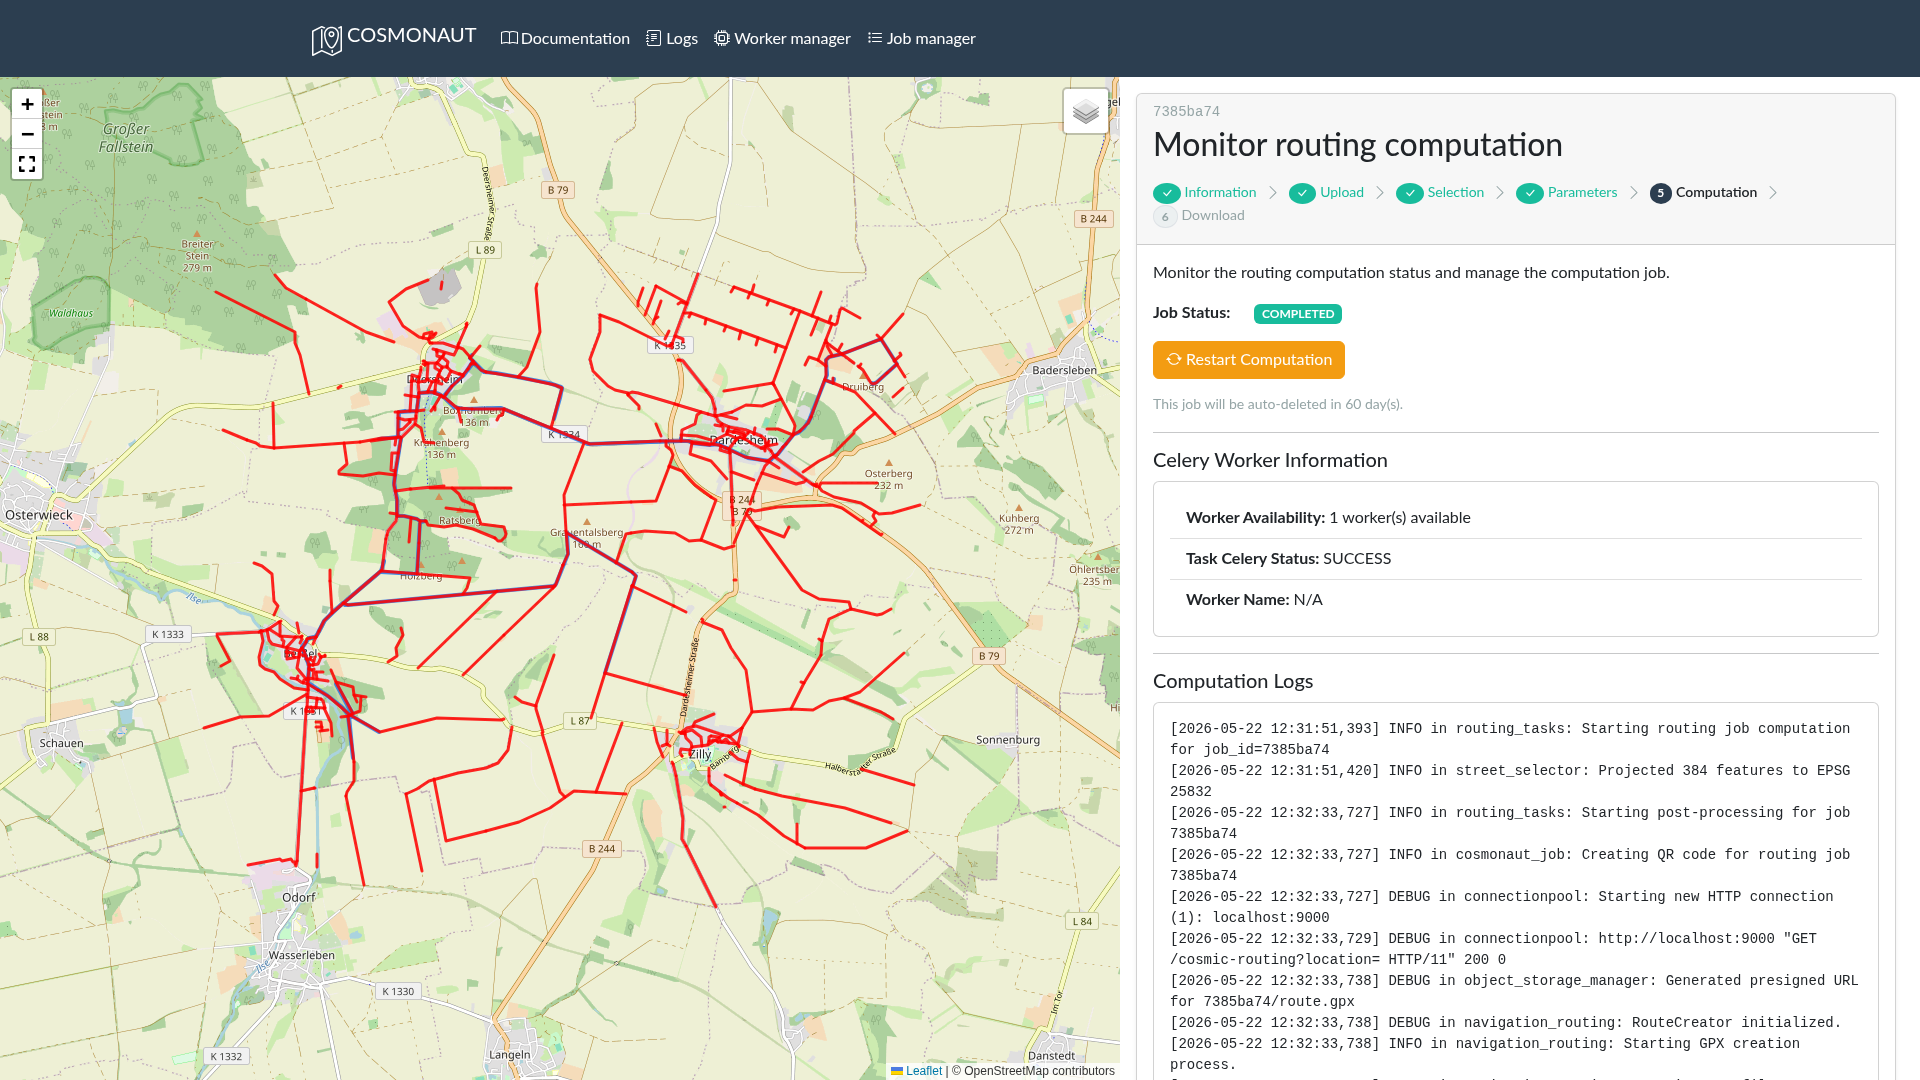
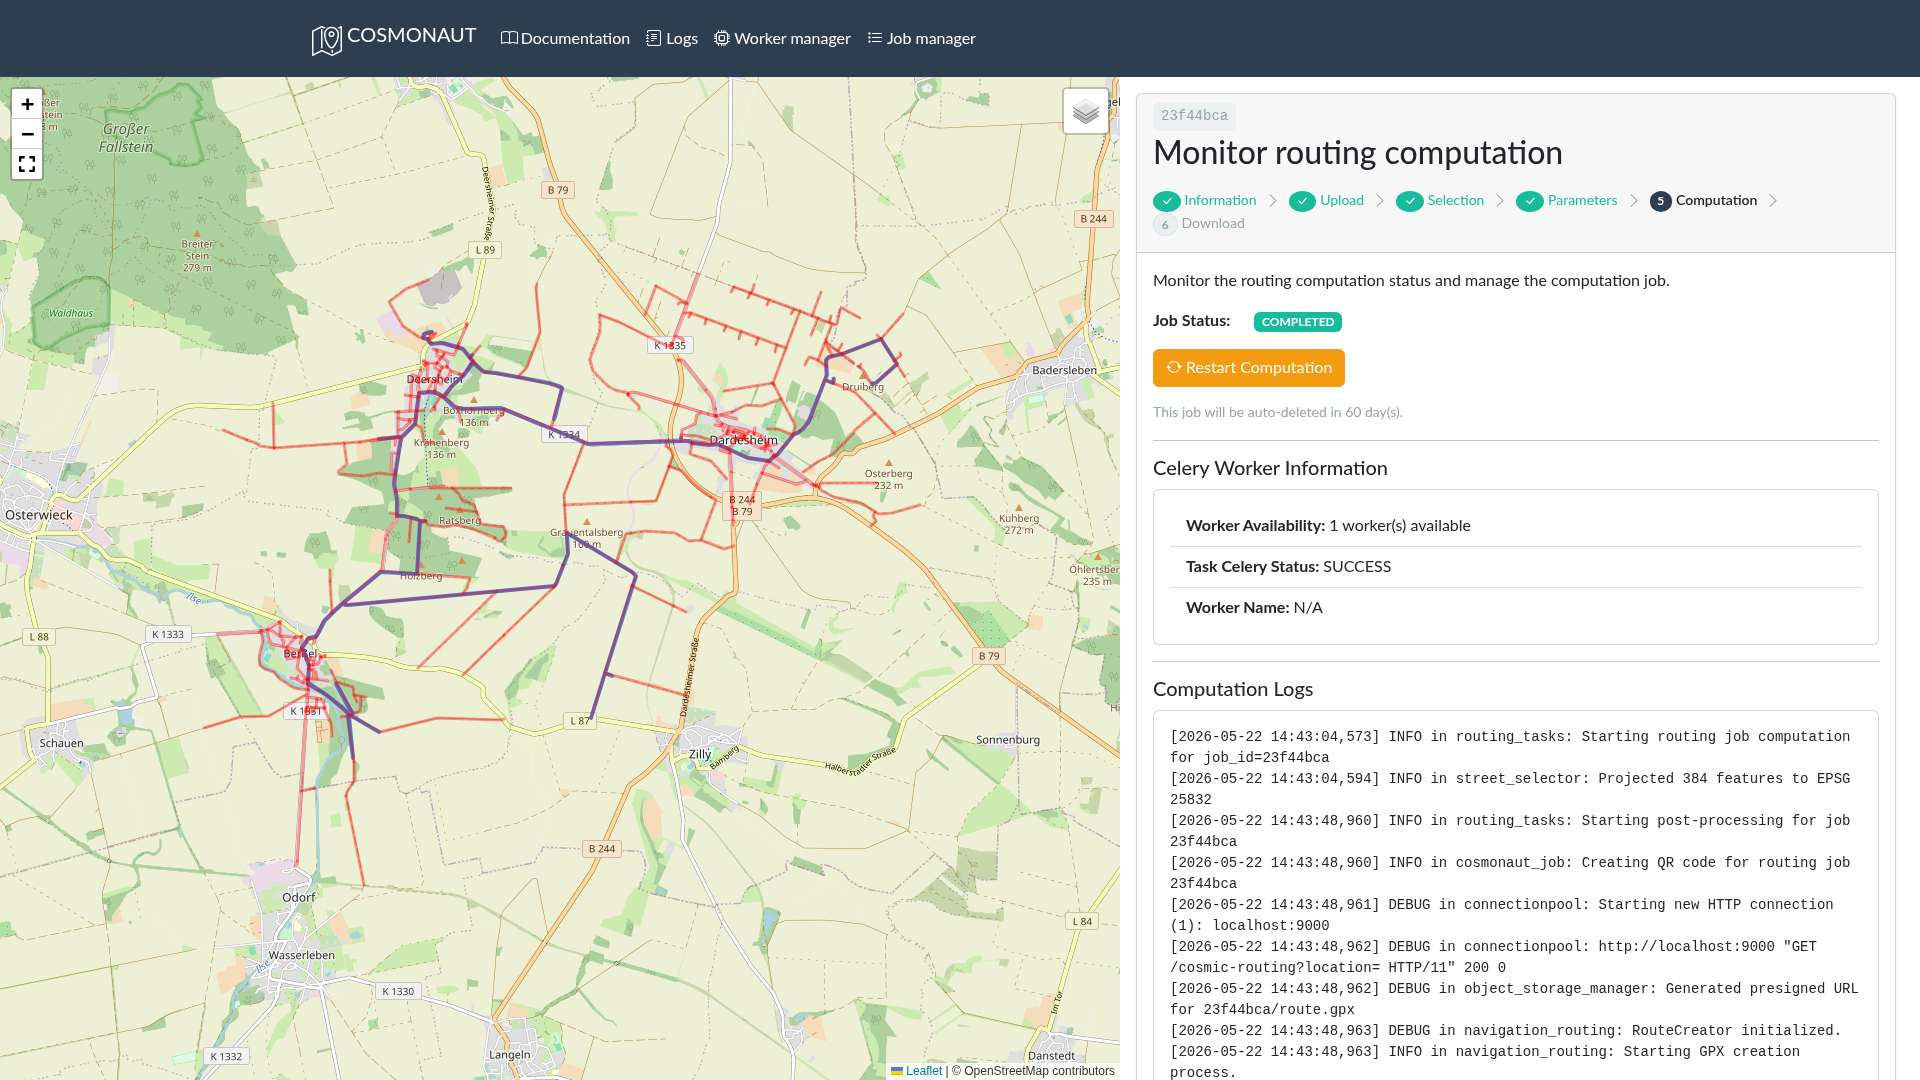
Design Update 004

diff --git a/cosmonaut_app/assets/dashExtensions_default.js b/cosmonaut_app/assets/dashExtensions_default.js
@@ -3,15 +3,17 @@ window.dashExtensions = Object.assign({}, window.dashExtensions, {
         function0: function(feature, context) {
                 const {
                     selected,
-                    zoom
+                    zoom,
+                    dimmed
                 } = context.hideout;
                 // Increase base weight to make lines easier to click. Keep adaptive thinning on zoom in.
                 const lineWeight = zoom ? Math.max(3, 18 / zoom) : 4; // at zoom=10 -> ~3
                 const color = selected.includes(feature.id) ? 'yellow' : 'red';
+                const opacity = dimmed ? 0.4 : 0.85;
                 return {
                     color: color,
                     weight: lineWeight,
-                    opacity: 0.85
+                    opacity: opacity
                 };
             }
 
@@ -19,14 +21,16 @@ window.dashExtensions = Object.assign({}, window.dashExtensions, {
         function1: function(feature, context) {
                 const {
                     selected,
-                    zoom
+                    zoom,
+                    dimmed
                 } = context.hideout;
                 const lineWeight = zoom ? Math.max(4, 22 / zoom) : 5;
                 const color = selected.includes(feature.id) ? 'orange' : '#ff6666';
+                const opacity = dimmed ? 0.5 : 1.0;
                 return {
                     color: color,
                     weight: lineWeight,
-                    opacity: 1.0
+                    opacity: opacity
                 };
             }
 

diff --git a/cosmonaut_app/assets/style.css b/cosmonaut_app/assets/style.css
@@ -63,3 +63,10 @@ div:has(> #_pages_content) {
     flex: 1;
     max-width: 100%;
 }
+
+/* Card header as fieldset legend — sits on top border */
+.cn-card-legend {
+    margin-top: -12px;
+    width: fit-content;
+    margin-left: 12px;
+}

diff --git a/cosmonaut_app/layout.py b/cosmonaut_app/layout.py
@@ -54,11 +54,12 @@ _default_name_space.dump = lambda assets_folder=_assets_folder: _original_dump(
 style_handle = assign(
     """
 function(feature, context){
-    const {selected, zoom} = context.hideout;
+    const {selected, zoom, dimmed} = context.hideout;
     // Increase base weight to make lines easier to click. Keep adaptive thinning on zoom in.
     const lineWeight = zoom ? Math.max(3, 18 / zoom) : 4; // at zoom=10 -> ~3
     const color = selected.includes(feature.id) ? 'yellow' : 'red';
-    return {color: color, weight: lineWeight, opacity: 0.85};
+    const opacity = dimmed ? 0.4 : 0.85;
+    return {color: color, weight: lineWeight, opacity: opacity};
 }
 """
 )
@@ -67,10 +68,11 @@ function(feature, context){
 hover_style_handle = assign(
     """
 function(feature, context){
-    const {selected, zoom} = context.hideout;
+    const {selected, zoom, dimmed} = context.hideout;
     const lineWeight = zoom ? Math.max(4, 22 / zoom) : 5;
     const color = selected.includes(feature.id) ? 'orange' : '#ff6666';
-    return {color: color, weight: lineWeight, opacity: 1.0};
+    const opacity = dimmed ? 0.5 : 1.0;
+    return {color: color, weight: lineWeight, opacity: opacity};
 }
 """
 )
@@ -96,7 +98,7 @@ osm_layer = dl.TileLayer(
     url="https://{s}.tile.openstreetmap.org/{z}/{x}/{y}.png",
     attribution="© OpenStreetMap contributors",
 )
-default_map_layers = [osm_layer, dl.FullScreenControl()]
+default_map_layers = [osm_layer, dl.FullScreenControl(title="Toggle full screen")]
 steps_jobs = {
     "user_info": ["Information", "Provide user information"],
     "data_upload": ["Upload", "Upload classification data"],
@@ -324,7 +326,7 @@ def build_global_map():
                     options={"style": style_handle},
                     hoverStyle=hover_style_handle,
                     eventHandlers=dict(click=click_handler),
-                    hideout=dict(selected=[], zoom=10),
+                    hideout=dict(selected=[], zoom=10, dimmed=True),
                 ),
                 name="Streets",
                 checked=True,
@@ -344,7 +346,7 @@ def build_global_map():
         position="topright",
     )
     return dl.Map(
-        [osm_layer, dl.FullScreenControl(), layers_control],
+        [osm_layer, dl.FullScreenControl(title="Toggle full screen"), layers_control],
         id=MAIN_MAP_COMPONENT_MAP_SHARED_ID,
         center=[51.70, 11.20],
         zoom=10,
@@ -428,7 +430,7 @@ def create_card_input(
             html.Code(
                 job_id,
                 id=JOB_ID_KICKER_CODE_SHARED_ID,
-                className="text-muted small d-block mb-1",
+                className="text-muted small d-inline-block mb-1 bg-light px-2 py-1 rounded",
                 title="Copy job ID",
                 # cursor-pointer: no Bootstrap utility class in v5.2 for cursor
                 style={"cursor": "pointer"},
@@ -729,6 +731,22 @@ def register_map_callbacks(app):
             return empty_fc
 
         return StreetSelector(job).viewport_fc(bounds, zoom or 10)
+
+    @app.callback(
+        Output(OSM_GEOJSON_LAYER_MAP_SHARED_ID, "hideout", allow_duplicate=True),
+        Input(URL_SHARED_ID, "pathname"),
+        State(OSM_GEOJSON_LAYER_MAP_SHARED_ID, "hideout"),
+        prevent_initial_call=True,
+    )
+    def toggle_map_dim_on_page(pathname, current_hideout):
+        """Dim the map on all pages except street_selection."""
+        if not pathname or not current_hideout:
+            # leave hideout untouched — returning None would clobber the
+            # GeoJSON layer's state and the style_handle would crash on
+            # context.hideout.dimmed
+            raise PreventUpdate
+        dimmed = not pathname.endswith("/street-selection")
+        return {**current_hideout, "dimmed": dimmed}
 
 
 # Copy job ID to clipboard on click, flash background to confirm.

diff --git a/cosmonaut_app/pages/data_upload.py b/cosmonaut_app/pages/data_upload.py
@@ -103,11 +103,13 @@ from cosmonaut_app.constants.html_ids import (
     JOB_ID_STORE_SHARED_ID,
     MAIN_MAP_COMPONENT_MAP_SHARED_ID,
     MEMBERSHIP_ERROR_DIV_DATA_UPLOAD_ID,
+    MEMBERSHIP_HELP_ICON_ID,
     MEMBERSHIP_TILE_LAYER_MAP_ID,
     MEMBERSHIP_UPLOAD_COLLAPSE_DATA_UPLOAD_ID,
     NEXT_BUTTON_DATA_UPLOAD_ID,
     PREDICTOR_ERROR_DIV_DATA_UPLOAD_ID,
     PREDICTOR_FILE_INFO_DIV_DATA_UPLOAD_ID,
+    PREDICTOR_HELP_ICON_ID,
     PREDICTOR_UPLOAD_COLLAPSE_DATA_UPLOAD_ID,
     PREDICTOR_UPLOAD_COMPONENT_DATA_UPLOAD_ID,
     STREET_PROCESSING_POLL_DATA_UPLOAD_ID,
@@ -147,11 +149,23 @@ def _first_sentence(text):
     return stripped[: dot + 1]
 
 
-def _help_icon(description):
-    """Create a question-mark icon with a native browser tooltip."""
-    return html.I(
-        className="bi bi-info-circle text-muted ms-1",
-        title=description.strip(),
+def _help_icon(icon_id, description):
+    """Create a question-mark icon with a dbc.Tooltip.
+
+    Wrapped in an html.Span so the helper returns a single component, not a
+    list. Returning a raw list and placing it inside another list (e.g. as a
+    sibling inside html.Span's children) leaves React with a nested array
+    that dash-renderer doesn't reliably flatten — crashes the page with
+    React error #31 ("Objects are not valid as a React child").
+    """
+    return html.Span(
+        [
+            html.I(
+                id=icon_id,
+                className="bi bi-info-circle text-muted ms-1",
+            ),
+            dbc.Tooltip(description.strip(), target=icon_id),
+        ]
     )
 
 
@@ -223,7 +237,7 @@ def layout(job_id):
                 [
                     dbc.CardHeader(
                         "Coordinate system",
-                        className="text-uppercase text-muted small fw-bold",
+                        className="cn-card-legend bg-white border-0 fw-bold",
                     ),
                     dbc.CardBody(
                         [
@@ -256,7 +270,7 @@ def layout(job_id):
                 [
                     dbc.CardHeader(
                         "Membership data",
-                        className="text-uppercase text-muted small fw-bold",
+                        className="cn-card-legend bg-white border-0 fw-bold",
                     ),
                     dbc.CardBody(
                         [
@@ -282,7 +296,7 @@ def layout(job_id):
                                                 _first_sentence(DESCRIPTION_MEMBERSHIP),
                                                 className="text-muted",
                                             ),
-                                            _help_icon(DESCRIPTION_MEMBERSHIP),
+                                            _help_icon(MEMBERSHIP_HELP_ICON_ID, DESCRIPTION_MEMBERSHIP),
                                         ],
                                     ),
                                 ],
@@ -346,7 +360,7 @@ def layout(job_id):
                 [
                     dbc.CardHeader(
                         "Predictor data",
-                        className="text-uppercase text-muted small fw-bold",
+                        className="cn-card-legend bg-white border-0 fw-bold",
                     ),
                     dbc.CardBody(
                         [
@@ -372,7 +386,7 @@ def layout(job_id):
                                                 _first_sentence(DESCRIPTION_PREDICTOR),
                                                 className="text-muted",
                                             ),
-                                            _help_icon(DESCRIPTION_PREDICTOR),
+                                            _help_icon(PREDICTOR_HELP_ICON_ID, DESCRIPTION_PREDICTOR),
                                         ],
                                     ),
                                 ],

diff --git a/cosmonaut_app/pages/user_info.py b/cosmonaut_app/pages/user_info.py
@@ -104,15 +104,6 @@ def layout(job_id):
                 "Enter your email to receive notifications for this job.",
                 className="text-muted",
             ),
-            dbc.Collapse(
-                dbc.Alert(
-                    "Warning: Your email is visible from inside the UFZ network.",
-                    color="warning",
-                    className="mb-2",
-                ),
-                id=EMAIL_VISIBILITY_NOTICE_COLLAPSE_USER_INFO_ID,
-                is_open=_initial_collapse_open,
-            ),
             dbc.Label(
                 "Email address",
                 html_for=EMAIL_INPUT_USER_INFO_ID,
@@ -127,17 +118,26 @@ def layout(job_id):
                 autoFocus=True,
                 disabled=not is_active,
             ),
+            dbc.Collapse(
+                dbc.FormText(
+                    "Warning: Your email is visible from inside the UFZ network.",
+                    color="warning",
+                    className="d-block",
+                ),
+                id=EMAIL_VISIBILITY_NOTICE_COLLAPSE_USER_INFO_ID,
+                is_open=_initial_collapse_open,
+            ),
+            html.Div(
+                _initial_helper,
+                id=EMAIL_HELPER_TEXT_USER_INFO_ID,
+                className=_initial_helper_cls,
+            ),
             dbc.FormText(
                 [
                     html.I(className="bi bi-shield-check me-1"),
                     "We never share your email.",
                 ],
                 color="secondary",
-            ),
-            html.Div(
-                _initial_helper,
-                id=EMAIL_HELPER_TEXT_USER_INFO_ID,
-                className=_initial_helper_cls,
             ),
         ]
     )
@@ -189,7 +189,10 @@ def validate_email(value):
             True,
             False,
             False,
-            "Looks good — you'll be notified when this job completes.",
+            [
+                html.I(className="bi bi-check-lg me-1"),
+                "You'll be notified when this job completes.",
+            ],
             "text-success small",
             True,
         )

diff --git a/cosmonaut_app/pages/routing_params.py b/cosmonaut_app/pages/routing_params.py
@@ -149,7 +149,7 @@ _toggle_button = dbc.Button(
     "Show advanced options ▾",
     id=ADVANCED_TOGGLE_ROUTING_PARAMS_ID,
     color="link",
-    className="mt-2 p-0",
+    className="mt-2 p-0 text-muted small text-decoration-none",
     n_clicks=0,
 )
 
@@ -220,6 +220,7 @@ def layout(job_id):
 @callback(
     Output(ADVANCED_COLLAPSE_ROUTING_PARAMS_ID, "is_open"),
     Output(ADVANCED_TOGGLE_ROUTING_PARAMS_ID, "children"),
+    Output(ADVANCED_TOGGLE_ROUTING_PARAMS_ID, "className"),
     Input(ADVANCED_TOGGLE_ROUTING_PARAMS_ID, "n_clicks"),
     State(ADVANCED_COLLAPSE_ROUTING_PARAMS_ID, "is_open"),
     prevent_initial_call=True,
@@ -227,7 +228,8 @@ def layout(job_id):
 def toggle_advanced_options(n_clicks, is_open):
     new_open = not is_open
     label = "Hide advanced options ▴" if new_open else "Show advanced options ▾"
-    return new_open, label
+    className = "mt-2 p-0 text-muted small text-decoration-none"
+    return new_open, label, className
 
 
 @callback(

diff --git a/cosmonaut_app/pages/street_selection.py b/cosmonaut_app/pages/street_selection.py
@@ -295,7 +295,7 @@ def layout(job_id: str):
                     dbc.Badge(
                         "Selected: 0",
                         id=SELECTED_BADGE_STREET_SELECTION_ID,
-                        color="info",
+                        color="secondary",
                         className="ms-2",
                     ),
                 ],
@@ -863,9 +863,11 @@ clientside_callback(
     """
     function(hideout) {
         const n = (hideout && hideout.selected) ? hideout.selected.length : 0;
-        return "Selected: " + n;
+        const color = n > 0 ? "info" : "secondary";
+        return [n === 0 ? "Selected: 0" : "Selected: " + n, color];
     }
     """,
-    Output(SELECTED_BADGE_STREET_SELECTION_ID, "children"),
+    [Output(SELECTED_BADGE_STREET_SELECTION_ID, "children"),
+     Output(SELECTED_BADGE_STREET_SELECTION_ID, "color")],
     Input(OSM_GEOJSON_LAYER_MAP_SHARED_ID, "hideout"),
 )

diff --git a/cosmonaut_app/constants/html_ids.py b/cosmonaut_app/constants/html_ids.py
@@ -109,6 +109,10 @@ STREET_PROCESSING_STATUS_DIV_DATA_UPLOAD_ID = (
     "street-processing-status-div-data-upload-id"
 )
 
+# --- Icons ---
+MEMBERSHIP_HELP_ICON_ID = "membership-help-icon-data-upload-id"
+PREDICTOR_HELP_ICON_ID = "predictor-help-icon-data-upload-id"
+
 # --- Inputs ---
 DATA_UPLOAD_EPSG_INPUT_DATA_UPLOAD_ID = "data-upload-epsg-input-data-upload-id"
 DATA_UPLOAD_OPACITY_SLIDER_DATA_UPLOAD_ID = "data-upload-opacity-slider-data-upload-id"

diff --git a/cosmonaut_app/pages/route_download.py b/cosmonaut_app/pages/route_download.py
@@ -123,7 +123,7 @@ def layout(job_id):
             outline=True,
             href=f"/download/{job_id}/work_dir.zip",
             external_link=True,
-            className="w-100 mt-2",
+            className="mt-2",
         ),
         html.Div(
             [

diff --git a/cosmonaut_app/assets/docs/documentation.md b/cosmonaut_app/assets/docs/documentation.md
@@ -2,7 +2,7 @@
 
 ### COSmic ray based soil MOisture Prediction NAvigation and UTility Tool
 
-*Last updated: 2026-05-22 12:37:23*
+*Last updated: 2026-05-22 14:46:26*
 
 ## Table of Contents
 1. [Introduction](#introduction)
